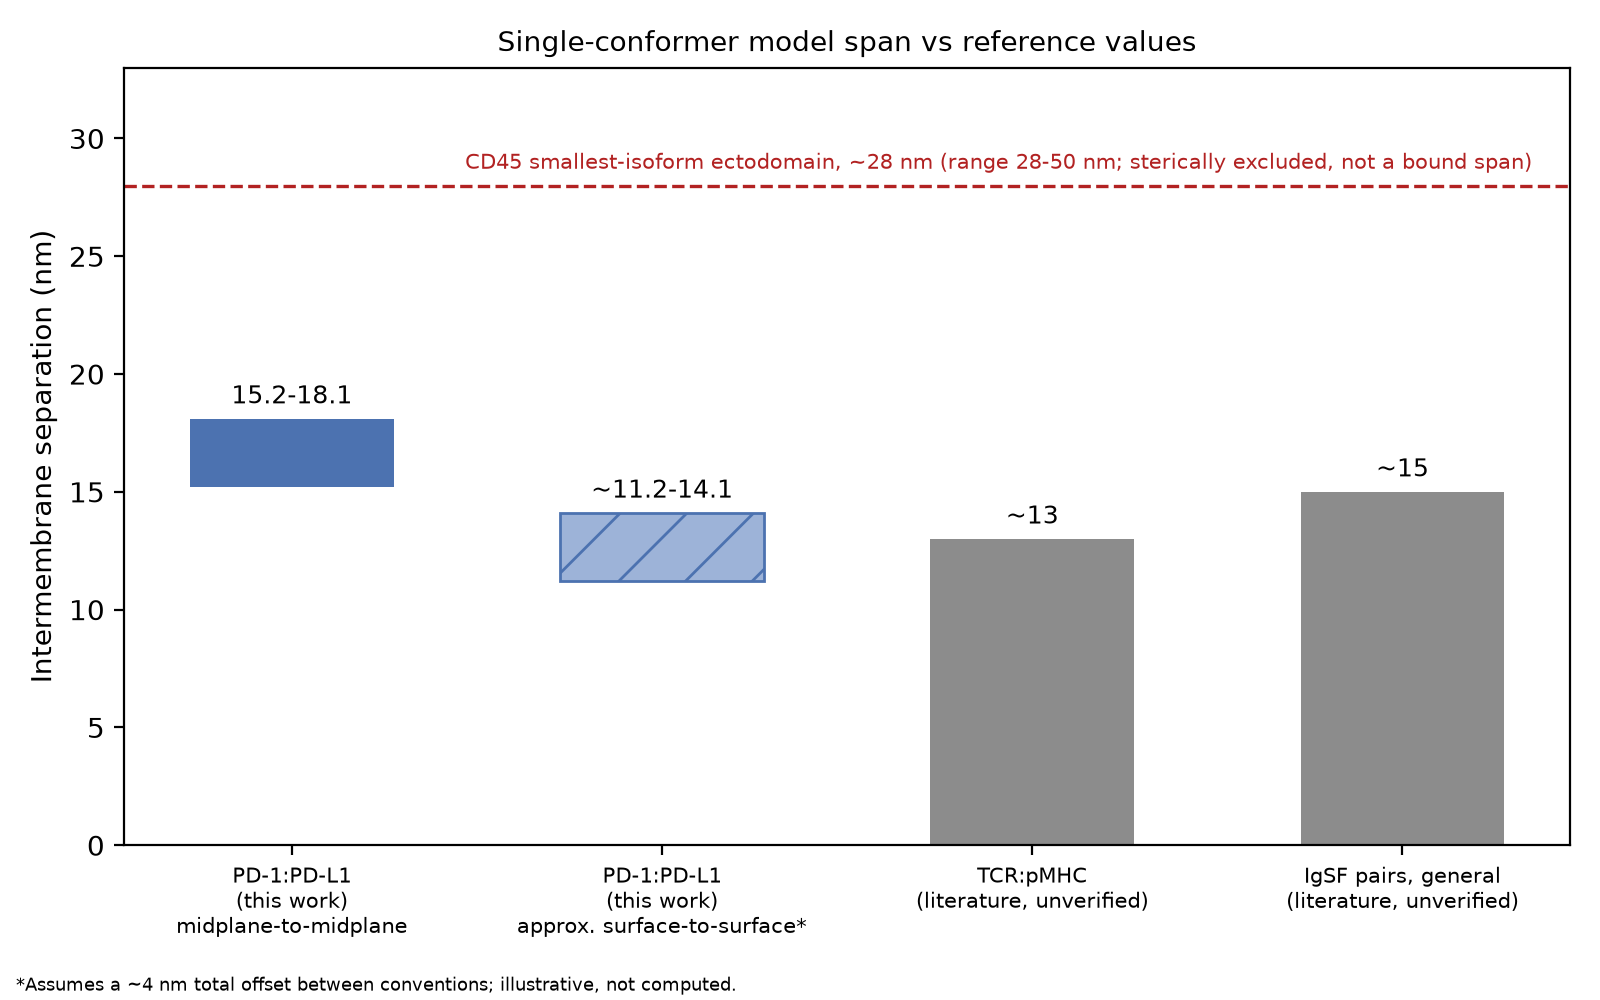
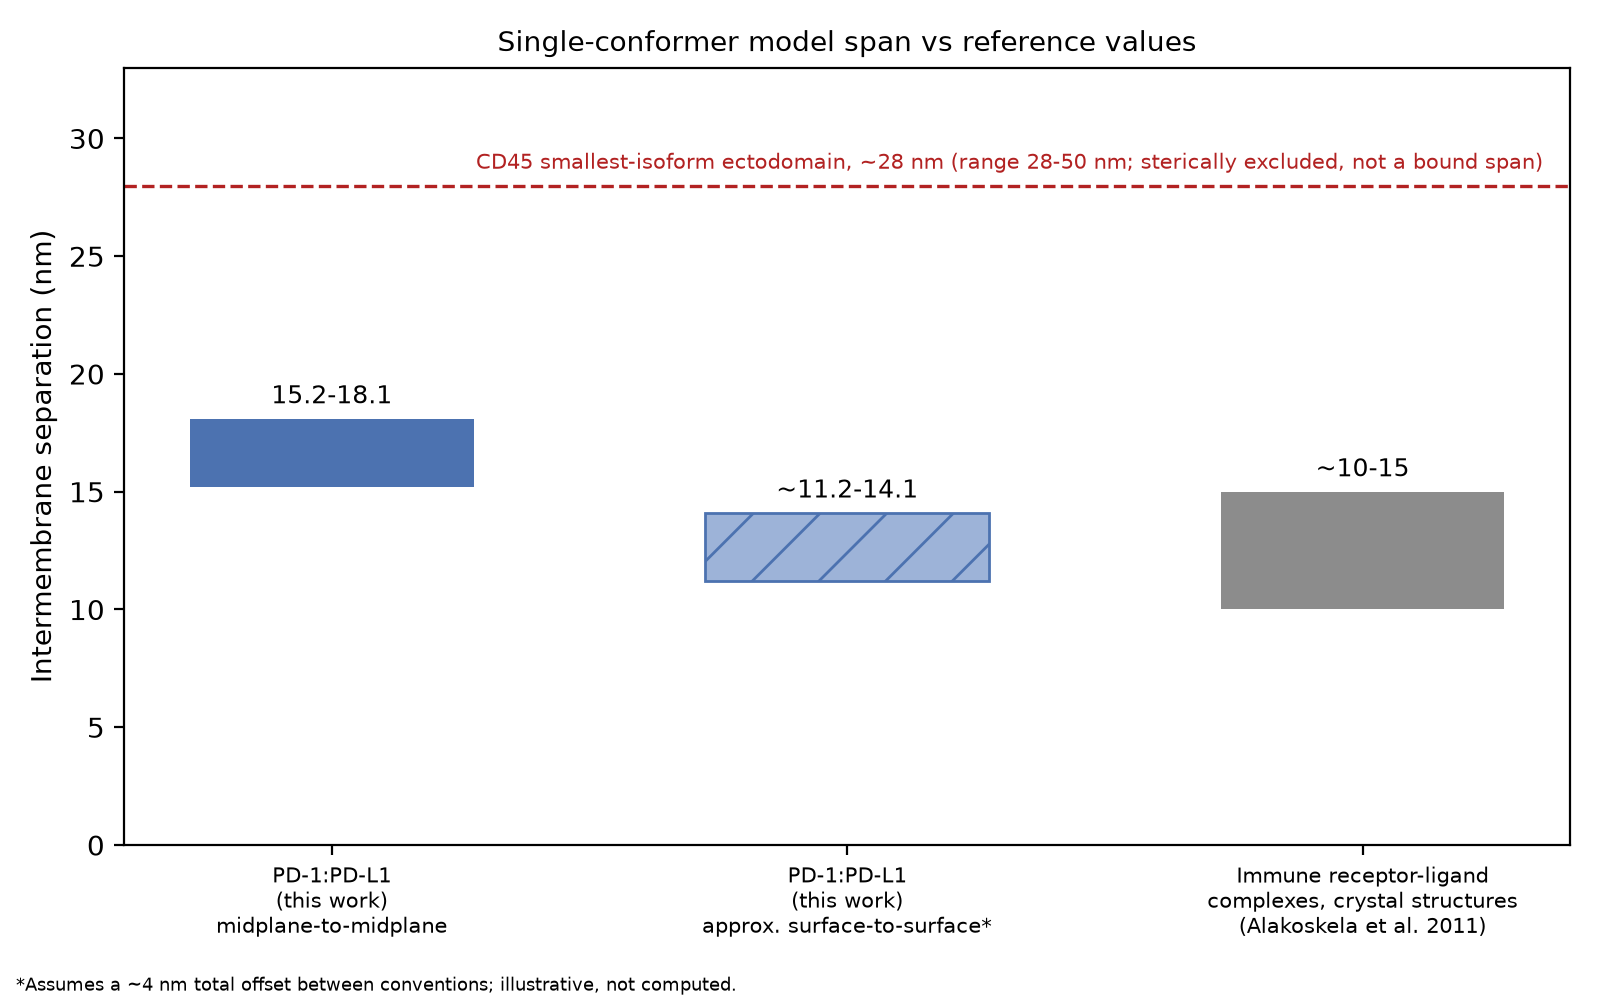
Figure 1: replace unverified TCR:pMHC and IgSF bars with one sourced receptor-ligand range bar

diff --git a/src/make_figure1.py b/src/make_figure1.py
@@ -22,12 +22,14 @@ MODEL_MIN, MODEL_MAX = 15.22, 18.10
 # and surface-to-surface conventions (nm).
 SURFACE_OFFSET = 4.0
 
-# Reference values taken from the manuscript draft and NOT verified by this repository:
-#  - TCR:pMHC ~13 nm. Cordoba et al. 2013 does not state this value in its text; find the primary source before using it.
-#  - Ig-superfamily pairs ~15 nm. A summary of crystal structures (PMC3123984) reports about 15 nm for many immune
-#    receptor-ligand pairs (10-15 nm range); the manuscript draft's "Strazza 2024" attribution could not be found.
-TCR_PMHC = 13.0   # nm, approximate
-IGSF_PAIRS = 15.0  # nm, approximate
+# Reference value (secondary source, not re-derived here):
+#  - Immune receptor-ligand complexes (TCR:pMHC, KIR:pMHC, NKG2D:MICA) have an extracellular span of about 10-15 nm
+#    from crystal structures, against about 40 nm for integrin complexes (Alakoskela et al. 2011, Biophys J 100:2865-2874,
+#    PMC3123984). That paper cites Groves 2007 (review), Fan et al. 2001 (KIR2DL1-HLA-Cw4) and Li et al. 2001
+#    (NKG2D-MICA). It does not state the measurement convention (end-to-end or membrane-normal projected length).
+#  - A separate TCR:pMHC value (~13 nm) and an "IgSF pairs ~15 nm" value (draft attribution "Strazza 2024" not found)
+#    were removed because no primary source was verified.
+RL_MIN, RL_MAX = 10.0, 15.0  # nm, range as reported
 
 # Verified: Cordoba et al. 2013 (Blood 121:4295-4302) reports about 28 nm (smallest isoform) to about 50 nm (largest)
 # for the CD45 ectodomain, from low-resolution electron microscopy (Woollett et al. 1985; McCall et al. 1992).
@@ -45,20 +47,18 @@ def main():
     ax.bar(1, shi - slo, bottom=slo, width=0.55, color="#9db3d8", edgecolor="#4c72b0", hatch="/")
     ax.text(1, shi + 0.4, f"~{slo:.1f}-{shi:.1f}", ha="center", va="bottom", fontsize=9)
 
-    for x, v in ((2, TCR_PMHC), (3, IGSF_PAIRS)):
-        ax.bar(x, v, width=0.55, color="#8c8c8c")
-        ax.text(x, v + 0.4, f"~{v:.0f}", ha="center", va="bottom", fontsize=9)
+    ax.bar(2, RL_MAX - RL_MIN, bottom=RL_MIN, width=0.55, color="#8c8c8c")
+    ax.text(2, RL_MAX + 0.4, f"~{RL_MIN:.0f}-{RL_MAX:.0f}", ha="center", va="bottom", fontsize=9)
 
     ax.axhline(CD45_SMALLEST, color="firebrick", linestyle="--", linewidth=1.2)
-    ax.text(3.35, CD45_SMALLEST + 0.5,
+    ax.text(2.35, CD45_SMALLEST + 0.5,
             f"CD45 smallest-isoform ectodomain, ~{CD45_SMALLEST:.0f} nm (range 28-50 nm; sterically excluded, not a bound span)",
             ha="right", va="bottom", fontsize=7.5, color="firebrick")
 
-    ax.set_xticks(range(4))
+    ax.set_xticks(range(3))
     ax.set_xticklabels(["PD-1:PD-L1\n(this work)\nmidplane-to-midplane",
                         "PD-1:PD-L1\n(this work)\napprox. surface-to-surface*",
-                        "TCR:pMHC\n(literature, unverified)",
-                        "IgSF pairs, general\n(literature, unverified)"], fontsize=7.5)
+                        "Immune receptor-ligand\ncomplexes, crystal structures\n(Alakoskela et al. 2011)"], fontsize=7.5)
     ax.set_ylabel("Intermembrane separation (nm)")
     ax.set_ylim(0, 33)
     ax.set_title("Single-conformer model span vs reference values", fontsize=10)

diff --git a/README.md b/README.md
@@ -50,7 +50,7 @@ Check that the inputs are right: 4ZQK chain A must be PD-L1 and chain B PD-1; `d
 | `archive/phase5_epitope_mapper.py` | **Superseded.** Pairs ONE antigen copy with the antibody chains of ALL copies, so crystal-packing contacts are counted. It gives 45 residues for pembrolizumab (5B8C chain C) and 40 for atezolizumab (5X8L chain A). The corrected counts (20 to 29 and 24 to 30) come from `src/pd1_pdl1_revision_checks.py epitope`. |
 | `archive/phase6_span_chart.py` | **Superseded.** Draws a single 16.5 nm bar. |
 
-Figure 1 (the modelled span against reference values) is drawn by `src/make_figure1.py` into `outputs/figure1_span_comparison.png`. The script that drew the first version of this figure was not preserved, so this script redraws it. The computed bars use the values in `expected/span_robustness.txt`. The CD45 reference line is at 28 nm, the smallest-isoform value in Cordoba et al. 2013 (the earlier draft used about 25 nm). The TCR:pMHC (about 13 nm) and Ig-superfamily (about 15 nm) bars come from the manuscript draft and are labelled unverified on the figure.
+Figure 1 (the modelled span against reference values) is drawn by `src/make_figure1.py` into `outputs/figure1_span_comparison.png`. The script that drew the first version of this figure was not preserved, so this script redraws it. The computed bars use the values in `expected/span_robustness.txt`. The CD45 reference line is at 28 nm, the smallest-isoform value in Cordoba et al. 2013 (the earlier draft used about 25 nm). The grey bar (about 10-15 nm, immune receptor-ligand complexes from crystal structures) is taken from Alakoskela et al. 2011 (Biophys J 100:2865-2874), a secondary source whose measurement convention is not stated. The draft's separate TCR:pMHC (about 13 nm) and Ig-superfamily (about 15 nm) bars were removed because no primary source was verified.
 
 ## Environment
 
@@ -111,7 +111,7 @@ Python 3.14.7, Biopython 1.88, NumPy 2.5.3, requests 2.34.2, Matplotlib 3.11.2 (
 
 ## Open items
 
-- Verify the TCR:pMHC value (about 13 nm) used in Figure 1, and the measurement convention behind the 10-15 nm receptor-ligand span, against the primary papers.
+- Check the measurement convention behind the 10-15 nm receptor-ligand span (Fan et al. 2001 and Li et al. 2001 structures, via Alakoskela et al. 2011), and look for a primary TCR:pMHC value (for example Choudhuri et al. 2005, Nature 436:578, not yet read) before restoring a separate TCR:pMHC bar.
 - Chain-normalised B-factors for PD-1 residues 71-76 (`src/item13_3rrq_crystal_contacts.cxc` and `src/bfactor_normalised_71_76.py`) have not yet been run to completion, so no result is reported for them.
 - Resolve the placement of the AlphaFold 85-92 loop in the crystal-core hybrid, which is the only source of clashes below 2.0 A (against PD-L1 residues 18-19, and ChimeraX also flags contact with PD-L1 residue 119).
 
